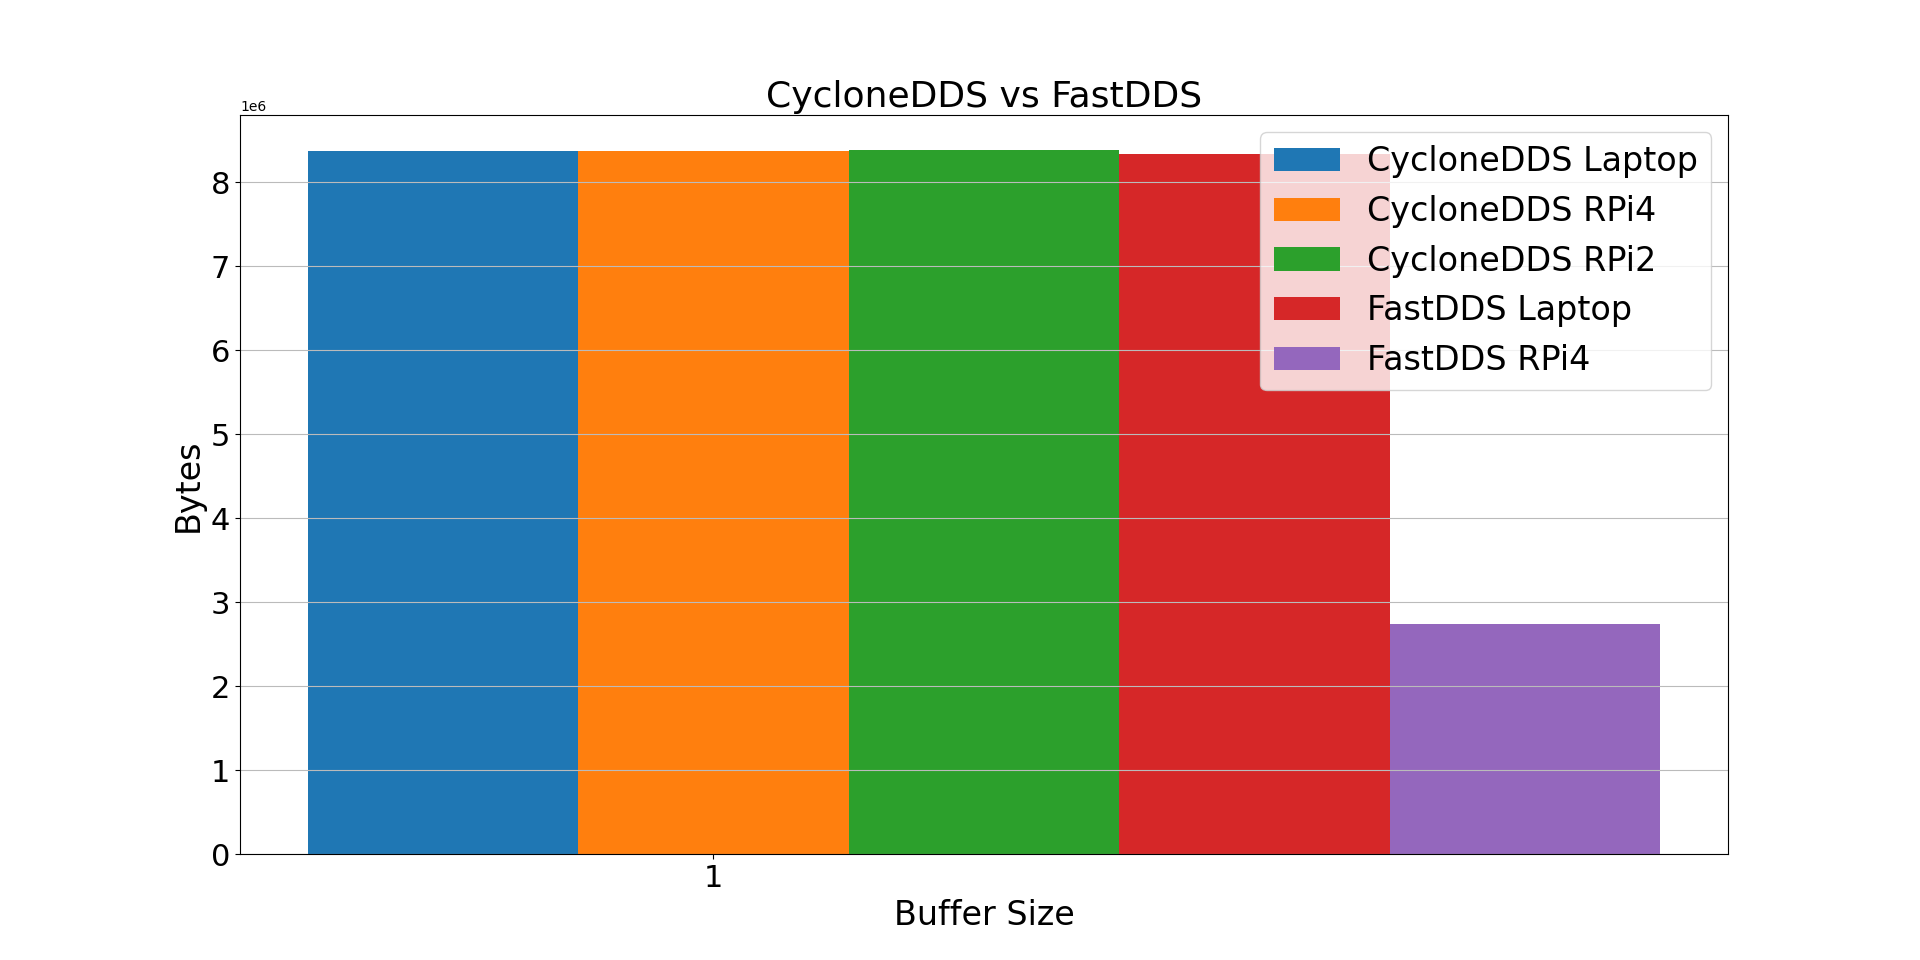
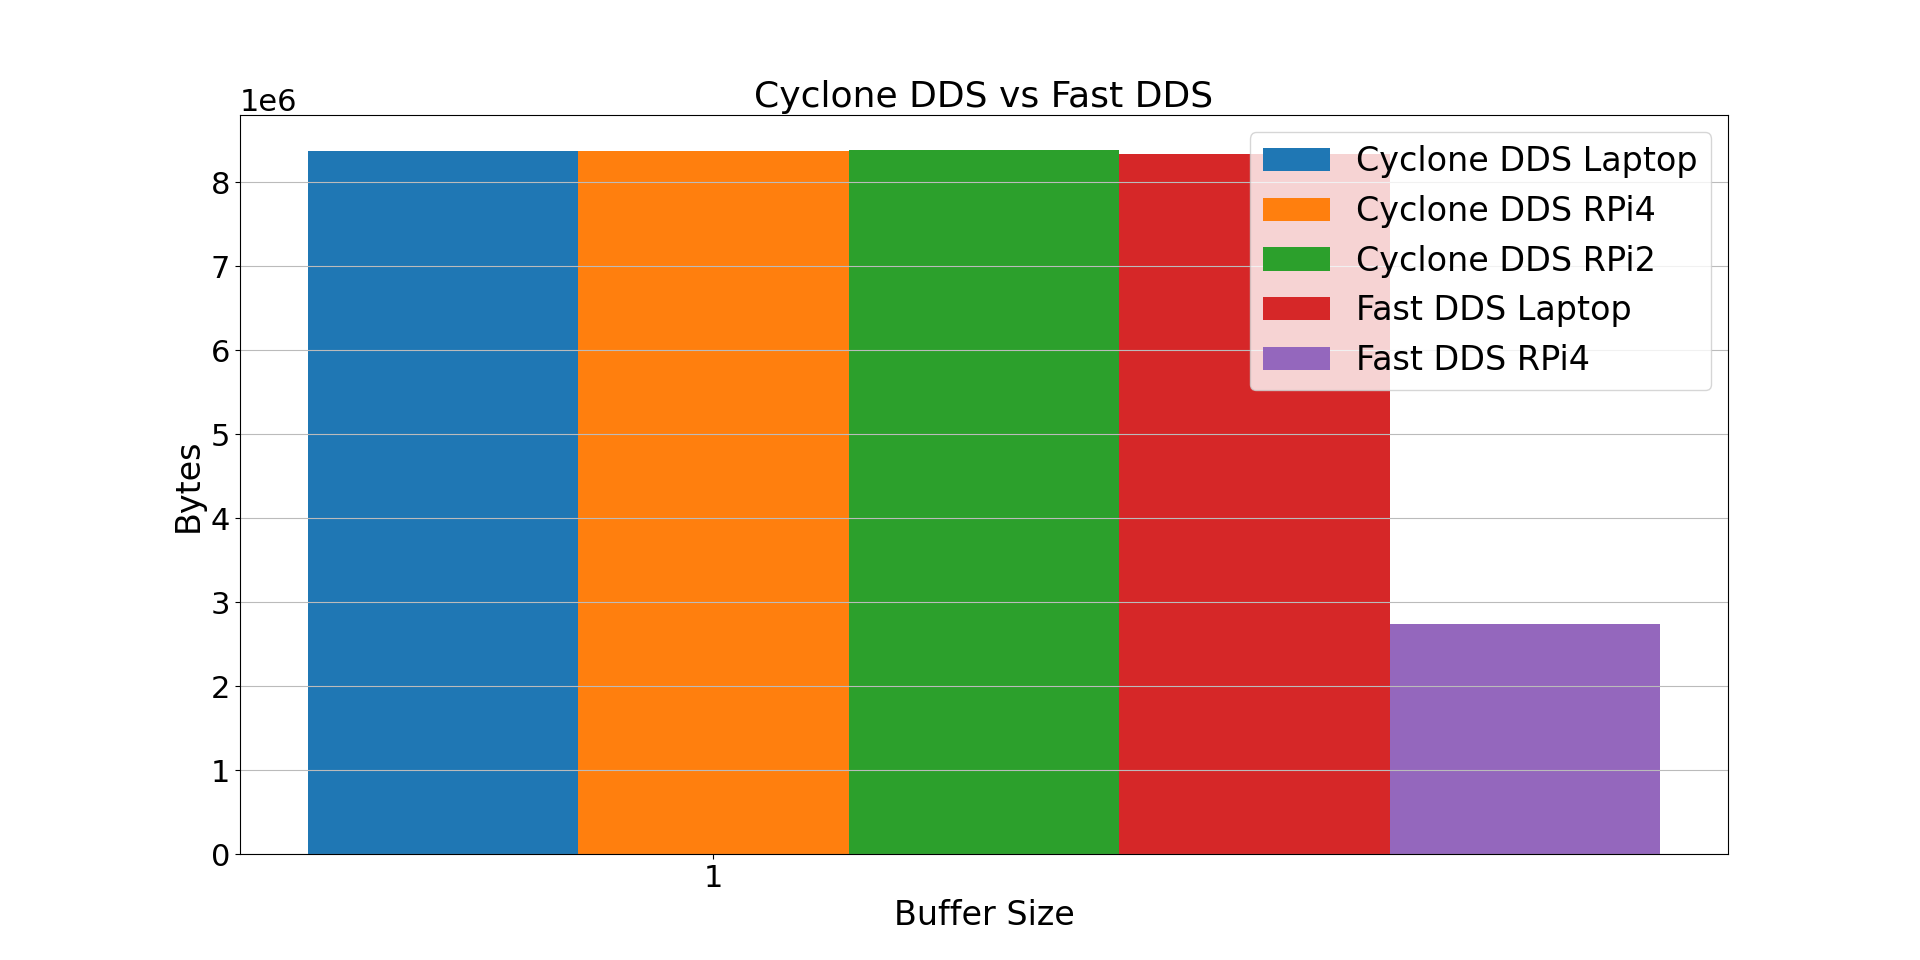
Changed names

diff --git a/data_plotting/idlsize/plots_3.py b/data_plotting/idlsize/plots_3.py
@@ -40,20 +40,21 @@ rects3 = ax.bar(x_pos + 3*width/3, cyc_pi2, width, label='RPi2')
 ax = plt.gca()
 ax.tick_params(axis = 'both', which = 'major', labelsize = 22)
 ax.tick_params(axis = 'both', which = 'minor', labelsize = 22)
+ax.yaxis.offsetText.set_fontsize(22)
 
 
-plt.bar(r1, cyc_lap, width=barWidth, label='CycloneDDS Laptop')
-plt.bar(r2, cyc_pi4, width=barWidth, label='CycloneDDS RPi4')
-plt.bar(r3, cyc_pi2, width=barWidth, label='CycloneDDS RPi2')
-plt.bar(r4, fast_lap, width=barWidth, label='FastDDS Laptop')
-plt.bar(r5, fast_pi4, width=barWidth, label='FastDDS RPi4')
+plt.bar(r1, cyc_lap, width=barWidth, label='Cyclone DDS Laptop')
+plt.bar(r2, cyc_pi4, width=barWidth, label='Cyclone DDS RPi4')
+plt.bar(r3, cyc_pi2, width=barWidth, label='Cyclone DDS RPi2')
+plt.bar(r4, fast_lap, width=barWidth, label='Fast DDS Laptop')
+plt.bar(r5, fast_pi4, width=barWidth, label='Fast DDS RPi4')
 
 # plt.bar(x_pos, cyc_pi2, align='center', alpha=0.5)
 # plt.xticks(x_pos, x_b)
 plt.xticks([r + barWidth for r in range(len(cyc_lap))], x_b)
 plt.ylabel('Bytes', fontsize=24)
 plt.xlabel('Buffer Size', fontsize=24)
-plt.title('CycloneDDS vs FastDDS', fontsize=26)
+plt.title('Cyclone DDS vs Fast DDS', fontsize=26)
 #plt.yscale('log')
 plt.grid(b=True, which='both', color='#BBBBBB', linestyle='-', axis='y')
 plt.legend(fontsize=24)

diff --git a/data_plotting/idlsize/plots_2.py b/data_plotting/idlsize/plots_2.py
@@ -36,6 +36,7 @@ rects2 = ax.bar(x_pos + width/2, fast_pi4, width, label='RPi4')
 
 ax.tick_params(axis = 'both', which = 'major', labelsize = 22)
 ax.tick_params(axis = 'both', which = 'minor', labelsize = 22)
+ax.yaxis.offsetText.set_fontsize(22)
 
 # plt.bar(r1, fast_lap, width=barWidth, label='Laptop')
 # plt.bar(r2, fast_pi4, width=barWidth, label='RPi4')
